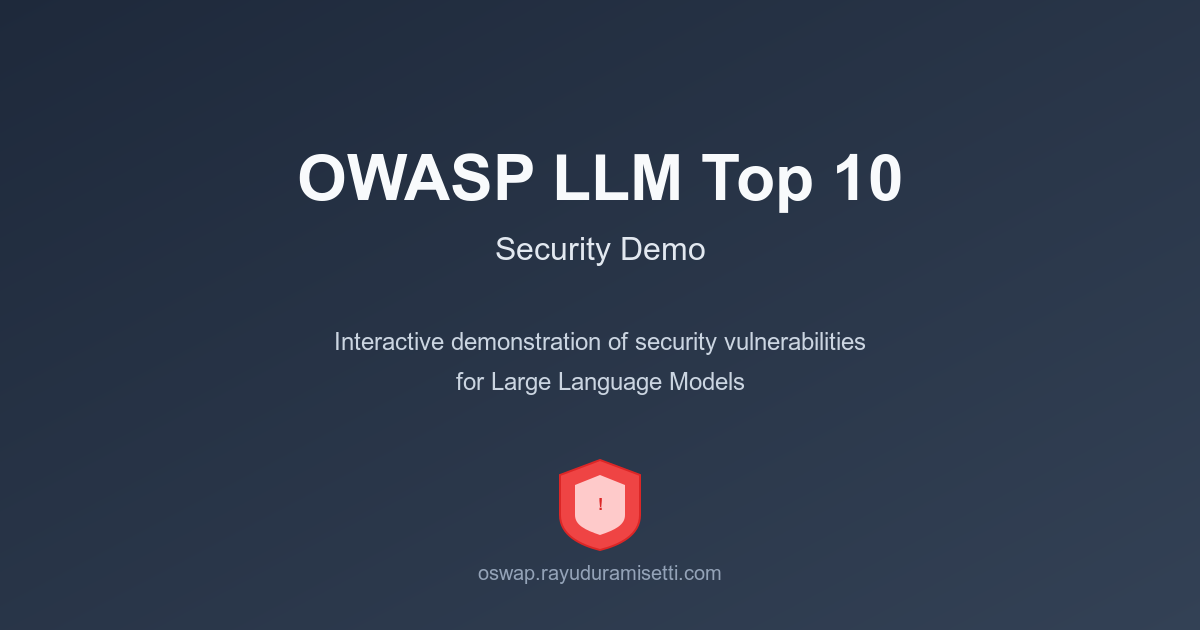
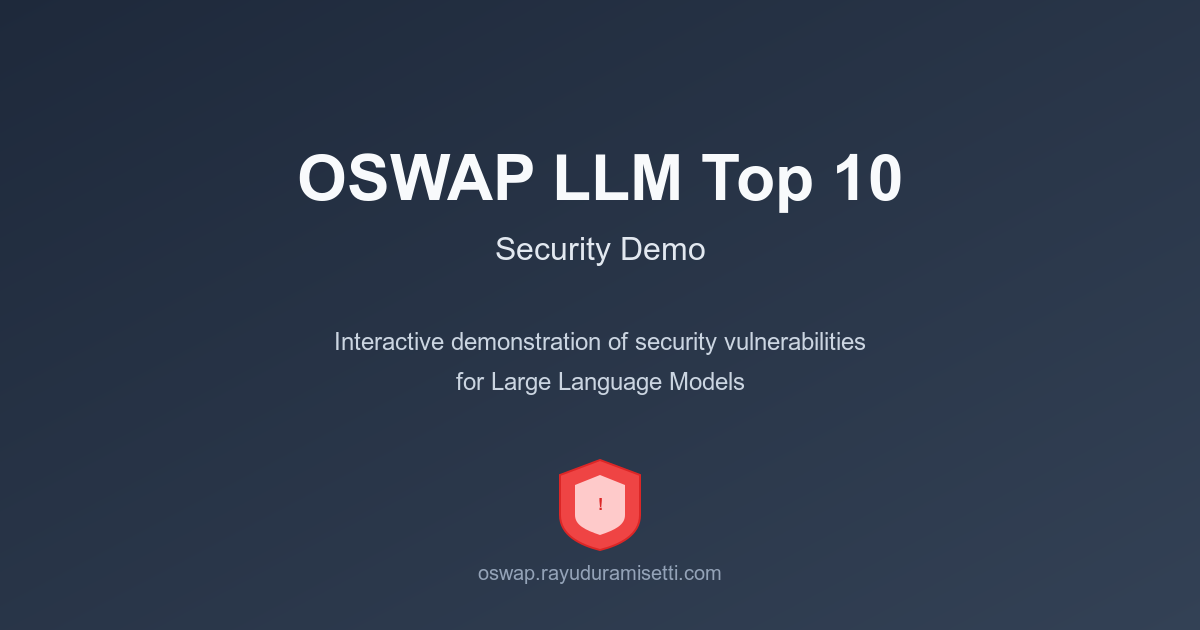
update oswap name blunder

Changed region(s): [[0.2775, 0.2413, 0.4317, 0.3317]]

diff --git a/src/app/layout.tsx b/src/app/layout.tsx
@@ -2,20 +2,20 @@ import type { Metadata } from "next";
 import "./globals.css";
 
 export const metadata: Metadata = {
-  title: "OWASP LLM Top 10 Demo",
-  description: "Interactive demonstration of OWASP Top 10 security vulnerabilities for Large Language Models",
+  title: "OSWAP LLM Top 10 Demo",
+  description: "Interactive demonstration of OSWAP Top 10 security vulnerabilities for Large Language Models",
   metadataBase: new URL("https://oswap.rayuduramisetti.com"),
   openGraph: {
-    title: "OWASP LLM Top 10 Demo",
-    description: "Interactive demonstration of OWASP Top 10 security vulnerabilities for Large Language Models",
+    title: "OSWAP LLM Top 10 Demo",
+    description: "Interactive demonstration of OSWAP Top 10 security vulnerabilities for Large Language Models",
     url: "https://oswap.rayuduramisetti.com",
-    siteName: "OWASP LLM Security Demo",
+    siteName: "OSWAP LLM Security Demo",
     images: [
       {
         url: "/og-image.png",
         width: 1200,
         height: 630,
-        alt: "OWASP LLM Top 10 Demo - Security Vulnerabilities Demonstration",
+        alt: "OSWAP LLM Top 10 Demo - Security Vulnerabilities Demonstration",
       },
     ],
     locale: "en_US",
@@ -23,8 +23,8 @@ export const metadata: Metadata = {
   },
   twitter: {
     card: "summary_large_image",
-    title: "OWASP LLM Top 10 Demo",
-    description: "Interactive demonstration of OWASP Top 10 security vulnerabilities for Large Language Models",
+    title: "OSWAP LLM Top 10 Demo",
+    description: "Interactive demonstration of OSWAP Top 10 security vulnerabilities for Large Language Models",
     images: ["/og-image.png"],
   },
 };

diff --git a/src/app/page.tsx b/src/app/page.tsx
@@ -18,9 +18,9 @@ export default function Home() {
     <div className="min-h-screen bg-white text-black">
       <div className="container mx-auto px-4 py-8">
         <header className="text-center mb-12">
-          <h1 className="text-4xl font-bold mb-4">OWASP LLM Top 10 Demo</h1>
+          <h1 className="text-4xl font-bold mb-4">OSWAP LLM Top 10 Demo</h1>
           <p className="text-lg text-gray-700 max-w-2xl mx-auto">
-            Interactive demonstration of the OWASP Top 10 security vulnerabilities for Large Language Models.
+            Interactive demonstration of the OSWAP Top 10 security vulnerabilities for Large Language Models.
             Each vulnerability includes real LLM interactions showing both vulnerable and protected behaviors.
           </p>
         </header>
@@ -40,6 +40,17 @@ export default function Home() {
 
         <footer className="mt-16 text-center text-sm text-gray-600">
           <p>Built for educational purposes to demonstrate LLM security vulnerabilities</p>
+          <p className="mt-2">
+            Learn more about the{' '}
+            <a
+              href="https://owasp.org/www-project-top-10-for-large-language-model-applications/"
+              target="_blank"
+              rel="noopener noreferrer"
+              className="text-blue-600 hover:text-blue-800 underline"
+            >
+              OSWAP Top 10 for LLM Applications
+            </a>
+          </p>
         </footer>
       </div>
     </div>
